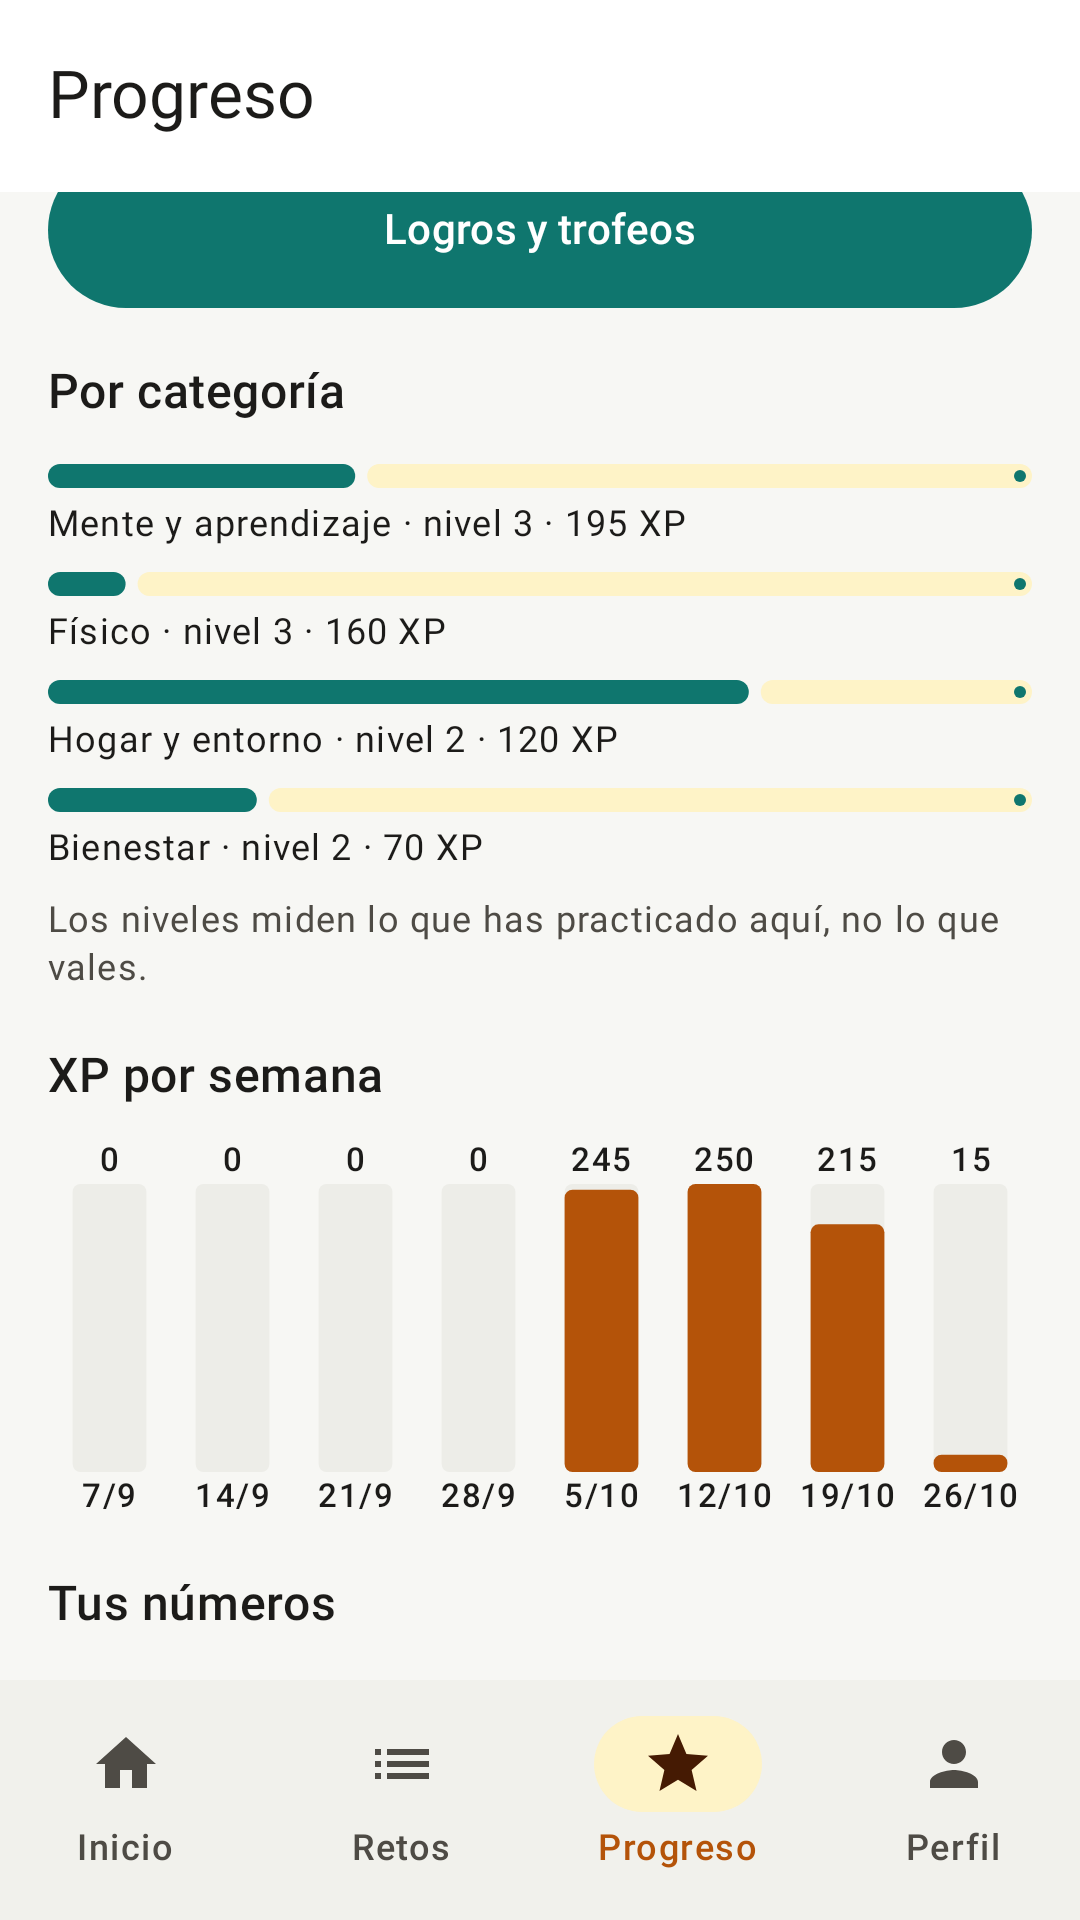
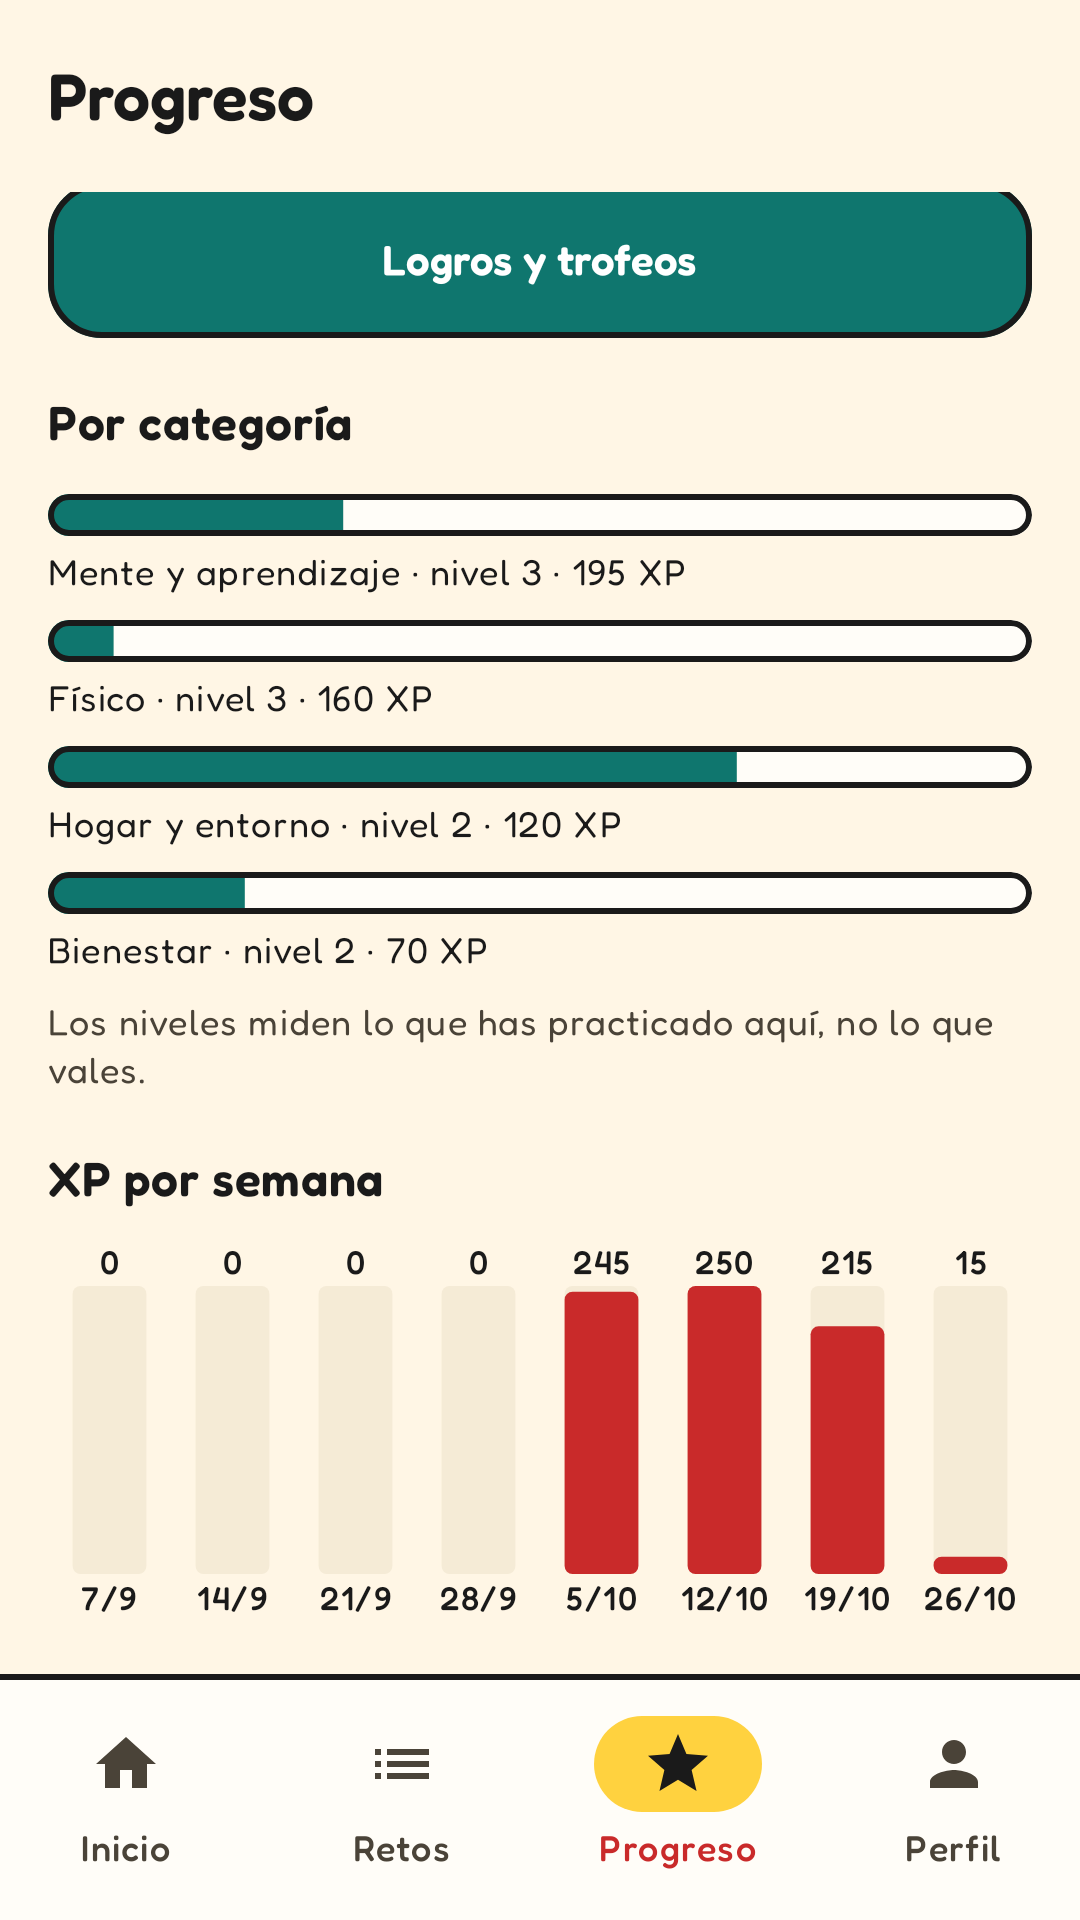
Verificado solo en el teléfono; capturas de Play al día
- La marca de Health Connect ya no se sincroniza: `record` quita `verified` de las instancias que suben y, al
  bajar, se conserva la de este teléfono. Grupos y clasificación dejan de mostrar verificados (las funciones del
  servidor siguen, devuelven 0). Así la política y la declaración de Health Connect siguen siendo ciertas.
- Texto de Laboratorio, política de privacidad y PLAY_STORE.md explican la marca (sí o no, solo en el teléfono).
- Capturas de la ficha regeneradas con el diseño nuevo; lista de publicación al día.
- Prueba: SyncTest comprueba que la marca no se sube y no se pierde al bajar.

diff --git a/shared/src/commonMain/kotlin/app/levelup/i18n/TextosCatalogo.kt b/shared/src/commonMain/kotlin/app/levelup/i18n/TextosCatalogo.kt
@@ -143,7 +143,7 @@ internal fun MutableMap<String, Array<String>>.catalog() {
     t("En Inicio, un botón para descubrir un reto que nunca has hecho. No cambia tu plan del día.", "On Home, a button to discover a challenge you've never done. It doesn't change your plan for the day.", "No Início, um botão para descobrir um desafio que você nunca fez. Não muda seu plano do dia.")
     t("Retos sorpresa", "Surprise challenges", "Desafios surpresa")
     t("Actividad de Health Connect", "Health Connect activity", "Atividade do Health Connect")
-    t("En los retos físicos, ver tus pasos y minutos de ejercicio de hoy. Solo se leen en el teléfono y nunca se suben.", "In physical challenges, see your steps and exercise minutes for today. They're only read on the phone and never uploaded.", "Nos desafios físicos, veja seus passos e minutos de exercício de hoje. Eles só são lidos no celular e nunca são enviados.")
+    t("En los retos físicos, ver tus pasos y minutos de ejercicio de hoy y marcar como verificados los que cubra tu ejercicio. Todo se queda en el teléfono: nunca se sube.", "In physical challenges, see your steps and exercise minutes for today and mark as verified the ones your exercise covers. Everything stays on the phone: nothing is uploaded.", "Nos desafios físicos, veja seus passos e minutos de exercício de hoje e marque como verificados os que seu exercício cobre. Tudo fica no celular: nada é enviado.")
     t("Escucha a tu cuerpo: si sientes dolor, mareo o falta de aire, para. Adapta el reto a tu salud y, si tienes dudas, consulta a un profesional.", "Listen to your body: if you feel pain, dizziness or shortness of breath, stop. Adapt the challenge to your health and, if in doubt, ask a professional.", "Escute seu corpo: se sentir dor, tontura ou falta de ar, pare. Adapte o desafio à sua saúde e, se tiver dúvidas, consulte um profissional.")
     t("Respeta si alguien no quiere conversar. El reto depende de tu gesto, no de la respuesta.", "Respect it if someone doesn't want to talk. The challenge depends on your gesture, not on the answer.", "Respeite se alguém não quiser conversar. O desafio depende do seu gesto, não da resposta.")
     t("LevelUp no da asesoría financiera. Adapta el reto a tu situación.", "LevelUp doesn't give financial advice. Adapt the challenge to your situation.", "O LevelUp não dá consultoria financeira. Adapte o desafio à sua situação.")

diff --git a/shared/src/commonMain/kotlin/app/levelup/data/Sync.kt b/shared/src/commonMain/kotlin/app/levelup/data/Sync.kt
@@ -214,8 +214,10 @@ private val kinds: Map<String, Kind<*>> = mapOf(
     "preferences" to Kind(Preferences.serializer(), { preferences(it.toInt()) }, { putPreferences(it) }, { deletePreferences(it.toInt()) }),
     "custom_category" to Kind(CustomCategory.serializer(), { customCategory(it) }, { putCustomCategory(it) }, { deleteCustomCategory(it) }),
     "custom_challenge" to Kind(CustomChallenge.serializer(), { customChallenge(it) }, { putCustomChallenge(it) }, { deleteCustomChallenge(it) }),
+    // `verified` sale de Health Connect y no se sube (ver `record`): al bajar, se conserva el de este teléfono.
     "instance" to Kind(ChallengeInstance.serializer(), { instance(it) },
-        { dropInstanceTwin(it.challengeId, it.date, it.id); putInstance(it) }, { deleteInstance(it) }),
+        { dropInstanceTwin(it.challengeId, it.date, it.id); putInstance(it.copy(verified = it.isDone && instance(it.id)?.verified == true)) },
+        { deleteInstance(it) }),
     "xp" to Kind(XpEntry.serializer(), { xp(it) }, { dropXpTwin(it.sourceType, it.sourceId, it.id); putXp(it) }, { deleteXp(it) }),
     "achievement" to Kind(UnlockedAchievement.serializer(), { achievement(it) }, { putAchievement(it) }, { deleteAchievement(it) }),
     "mission_run" to Kind(MissionRun.serializer(), { missionRun(it) }, { putMissionRun(it) }, { deleteMissionRun(it) }),
@@ -307,7 +309,9 @@ class SyncEngine(
         return if (kind == null || row == null) {
             SyncRecord(e.entity, e.entityId, JsonObject(emptyMap()), e.changedAt, deleted = true)
         } else {
-            SyncRecord(e.entity, e.entityId, json.encodeToJsonElement(kind.serializer, row).jsonObject, e.changedAt, deleted = false)
+            val data = json.encodeToJsonElement(kind.serializer, row).jsonObject
+            // Lo derivado de Health Connect no sale del teléfono (política de privacidad y declaración de Play).
+            SyncRecord(e.entity, e.entityId, if (e.entity == "instance") JsonObject(data - "verified") else data, e.changedAt, deleted = false)
         }
     }
 

diff --git a/shared/src/androidHostTest/kotlin/app/levelup/data/SyncTest.kt b/shared/src/androidHostTest/kotlin/app/levelup/data/SyncTest.kt
@@ -20,6 +20,7 @@ import org.robolectric.RobolectricTestRunner
 import org.robolectric.annotation.Config
 import java.io.File
 import kotlin.test.assertEquals
+import kotlin.test.assertFalse
 import kotlin.test.assertTrue
 
 /** Servidor en memoria con las mismas reglas que `push_records`: gana el cambio más reciente (en empate, lo guardado). */
@@ -122,6 +123,18 @@ class SyncTest {
         val expected = inst.xp + 10 // el reto y el logro "Primer paso", una sola vez
         assertEquals(expected, a.repo.totalXp.first())
         assertEquals(expected, b.repo.totalXp.first())
+    }
+
+    @Test fun theHealthConnectMarkNeverLeavesThePhone() = runTest {
+        val a = device()
+        a.repo.updatePreferences { it.copy(onboardingDone = true, categories = listOf("fisico")) }
+        a.sync.attach("u1")
+        val inst = a.repo.ensureToday().first { it.category == "fisico" }
+        a.repo.complete(inst.id, exerciseMinutesToday = 999)
+        assertTrue(a.db.dao().instance(inst.id)!!.verified)
+        a.sync.sync(); a.sync.sync() // sube y vuelve a bajar su propio registro
+        assertFalse("verified" in server.rows.getValue("instance" to inst.id).data, "no se sube")
+        assertTrue(a.db.dao().instance(inst.id)!!.verified, "bajar no se lo quita a este teléfono")
     }
 
     @Test fun undoReachesTheOtherPhone() = runTest {

diff --git a/shared/src/commonMain/kotlin/app/levelup/ui/social/SocialScreens.kt b/shared/src/commonMain/kotlin/app/levelup/ui/social/SocialScreens.kt
@@ -437,8 +437,7 @@ private fun GroupCard(g: GroupChallenge, me: String, vm: CloudViewModel, busy: B
         }
         joined.sortedByDescending { it.completed }.forEach { m ->
             Text(
-                "${m.displayName}${if (m.userId == me) " (tú)" else ""}: ${m.completed}" +
-                    if (m.verified > 0) tr(" ({0} verificados)", m.verified) else "",
+                "${m.displayName}${if (m.userId == me) " (tú)" else ""}: ${m.completed}",
                 style = MaterialTheme.typography.bodyMedium,
                 fontWeight = if (m.userId == me) FontWeight.Bold else null,
             )
@@ -551,7 +550,7 @@ private fun LeaderboardTab(vm: CloudViewModel) {
                     Avatar(r.displayName, frameOf(r.frame), null, 32.dp)
                     Spacer(Modifier.size(Space.s))
                     Text(r.displayName + if (r.isMe) tr(" (tú)") else "", Modifier.weight(1f), fontWeight = if (r.isMe) FontWeight.Bold else null)
-                    Text(if (r.weeklyVerified > 0) tr("{0} XP · {1} verificados", r.weeklyXp, r.weeklyVerified) else tr("{0} XP", r.weeklyXp))
+                    Text(tr("{0} XP", r.weeklyXp))
                 }
             }
         }

diff --git a/shared/src/commonMain/kotlin/app/levelup/cloud/Cloud.kt b/shared/src/commonMain/kotlin/app/levelup/cloud/Cloud.kt
@@ -106,9 +106,8 @@ data class GroupHistoryItem(
     val groupCompleted: Int,
 )
 
-/** [verified]: de esos, los respaldados por Health Connect. */
 @Serializable
-data class GroupMember(val userId: String, val username: String, val displayName: String, val status: String, val completed: Int, val verified: Int = 0)
+data class GroupMember(val userId: String, val username: String, val displayName: String, val status: String, val completed: Int)
 
 @Serializable
 data class GroupChallenge(
@@ -123,12 +122,8 @@ data class GroupChallenge(
     val members: List<GroupMember>,
 )
 
-/** [weeklyVerified]: retos físicos de esta semana respaldados por Health Connect. */
 @Serializable
-data class LeaderboardRow(
-    val userId: String, val username: String, val displayName: String, val frame: String, val weeklyXp: Long, val isMe: Boolean,
-    val weeklyVerified: Int = 0,
-)
+data class LeaderboardRow(val userId: String, val username: String, val displayName: String, val frame: String, val weeklyXp: Long, val isMe: Boolean)
 
 @Serializable
 data class NoticeActor(val userId: String, val username: String, val displayName: String)

diff --git a/shared/src/commonMain/kotlin/app/levelup/domain/Model.kt b/shared/src/commonMain/kotlin/app/levelup/domain/Model.kt
@@ -210,7 +210,7 @@ data class ChallengeInstance(
     val block: DayBlock? = null,
     /** Se completó en su versión mínima (da la XP de dificultad 1). */
     @ColumnInfo(defaultValue = "0") val minimal: Boolean = false,
-    /** Reto físico respaldado por Health Connect: ese día había minutos de ejercicio de sobra para él. */
+    /** Reto físico respaldado por Health Connect: ese día había minutos de ejercicio de sobra para él. Solo en este teléfono: no se sincroniza. */
     @ColumnInfo(defaultValue = "0") val verified: Boolean = false,
 ) {
     val isDone: Boolean get() = status == InstanceStatus.COMPLETED

diff --git a/shared/src/commonMain/kotlin/app/levelup/content/Tags.kt b/shared/src/commonMain/kotlin/app/levelup/content/Tags.kt
@@ -28,7 +28,7 @@ object Lab {
         Experiment(SURPRISE, "Retos sorpresa", "En Inicio, un botón para descubrir un reto que nunca has hecho. No cambia tu plan del día."),
         Experiment(
             HEALTH, "Actividad de Health Connect",
-            "En los retos físicos, ver tus pasos y minutos de ejercicio de hoy. Solo se leen en el teléfono y nunca se suben.",
+            "En los retos físicos, ver tus pasos y minutos de ejercicio de hoy y marcar como verificados los que cubra tu ejercicio. Todo se queda en el teléfono: nunca se sube.",
         ),
     )
 }

diff --git a/shared/src/commonMain/kotlin/app/levelup/i18n/TextosUi.kt b/shared/src/commonMain/kotlin/app/levelup/i18n/TextosUi.kt
@@ -730,8 +730,6 @@ internal fun MutableMap<String, Array<String>>.ui() {
     t("Tema", "Theme", "Tema")
     t("Estilo", "Style", "Estilo")
     t("Hecho y verificado con Health Connect", "Done and verified with Health Connect", "Feito e verificado com o Health Connect")
-    t(" ({0} verificados)", " ({0} verified)", " ({0} verificados)")
-    t("{0} XP · {1} verificados", "{0} XP · {1} verified", "{0} XP · {1} verificados")
     t("Pop", "Pop", "Pop")
     t("Aventura", "Adventure", "Aventura")
     t("Neón", "Neon", "Neon")

diff --git a/docs/play/PLAY_STORE.md b/docs/play/PLAY_STORE.md
@@ -221,7 +221,7 @@ Las capturas (sección 6) están en español: sirven para las tres fichas mientr
 | Clasificación de contenido | Cuestionario IARC: sin violencia ni ubicación. **Sí** a compras digitales. **Sí** a interacción entre usuarios, limitada: solo reacciones y ánimos predefinidos, sin chat ni texto libre (lo único que escribe cada persona es su nombre de usuario y su nombre visible), con bloqueo y denuncia |
 | Público objetivo | 13 años o más. No dirigida a menores de 13 |
 | Borrado de cuenta | En la app (Perfil → Cuenta y sincronización → Borrar mi cuenta) y, sin la app, por correo a donsackito@protonmail.com: URL https://shop.sackito.online/privacidad/levelup (sección «Tus derechos y cómo borrar tus datos») |
-| Apps de salud | Retos de bienestar general, sin funciones médicas. **Declaración de Health Connect obligatoria**: la app pide `READ_STEPS` y `READ_EXERCISE` (opcional, en Laboratorio) para mostrar los pasos y minutos de ejercicio de hoy en los retos físicos; solo lectura, procesado en el teléfono, sin guardar ni subir nada. Play revisa este formulario aparte |
+| Apps de salud | Retos de bienestar general, sin funciones médicas. **Declaración de Health Connect obligatoria**: la app pide `READ_STEPS` y `READ_EXERCISE` (opcional, en Laboratorio) para mostrar los pasos y minutos de ejercicio de hoy en los retos físicos y marcar como «verificado» el reto físico que ese ejercicio cubre; solo lectura y procesado en el teléfono: los pasos y minutos no se guardan, la marca (sí o no) se guarda solo en el teléfono, y nada se sube ni se comparte con otros usuarios. Play revisa este formulario aparte |
 
 ## 4. Seguridad de los datos
 
@@ -244,9 +244,9 @@ por cuenta del desarrollador, lo que Play no cuenta como «compartir»).
 | Actividad en la app → Otro contenido generado por el usuario (retos propios, notas, metas, favoritos, nombre de usuario) | Funciones de la app |
 
 No se recopilan ubicación, contactos, datos financieros (el pago lo gestiona Google Play), identificadores del
-dispositivo ni datos de diagnóstico. Los pasos y el ejercicio de Health Connect se leen y se muestran solo en el
-teléfono (no se guardan ni se envían): según la ayuda de Play, lo que se procesa solo en el dispositivo no cuenta
-como recopilado, pero **Tú** confírmalo al rellenarlo.
+dispositivo ni datos de diagnóstico. Los pasos y el ejercicio de Health Connect se procesan solo en el teléfono: se
+muestran, y de cada reto físico queda en el teléfono una marca de «verificado» que nunca se envía. Según la ayuda de
+Play, lo que se procesa solo en el dispositivo no cuenta como recopilado, pero **Tú** confírmalo al rellenarlo.
 
 **Tú**: repasa la lista con la ayuda vigente de Play Console al rellenarla; las categorías cambian a veces.
 
@@ -283,7 +283,7 @@ the daily challenges appear on Home. The account is optional and needs no email 
 Create an account, with any username and password, unlocks Friends and groups (only predefined reactions, no chat).
 LevelUp Plus (one-time in-app purchase, product id levelup_plus) only unlocks decorative frames, app colors and
 extended stats: Profile > LevelUp Plus. Health Connect (steps and exercise minutes, read-only, processed on the
-device) is optional and lives in Profile > Lab. The Wear OS app shows today's challenges sent by the phone.
+device; a completed physical challenge covered by today's exercise is marked "verified" on the phone only) is optional and lives in Profile > Lab. The Wear OS app shows today's challenges sent by the phone.
 The app follows the phone language (Spanish, English or Brazilian Portuguese); with the phone in English the
 menu names above appear exactly as written.
 ```
@@ -292,9 +292,9 @@ menu names above appear exactly as written.
 
 - [x] `supabase.properties` sin `cuenta=no`, y en Supabase «Confirm email» apagado (Authentication → Sign In / Providers → Email).
 - [ ] `play.properties` con la clave de licencia de Play y bundles regenerados después de copiarla.
-- [ ] Pruebas en verde: `./gradlew :shared:testAndroidHostTest` (y con `-PsupabaseLocalKey` si cambió la nube).
-- [ ] Bundles: `./gradlew :androidApp:bundleRelease :wearApp:bundleRelease`; `versionCode` subido en los dos.
-- [ ] Notas de la versión (sección 1) y capturas al día (sección 6).
+- [x] Pruebas en verde: `./gradlew :shared:testAndroidHostTest` (y con `-PsupabaseLocalKey` si cambió la nube). 156 en verde el 2026-10-28.
+- [x] Bundles: `./gradlew :androidApp:bundleRelease :wearApp:bundleRelease`; `versionCode` subido en los dos (la primera subida va con 1 y 100001). Generados y firmados el 2026-10-28; **regenerarlos** después de copiar la clave de licencia.
+- [x] Notas de la versión (sección 1) y capturas al día (sección 6): capturas regeneradas con el diseño nuevo el 2026-10-28.
 - [ ] Contenido de la app: privacidad, anuncios, acceso, IARC, público, Health Connect (sección 3).
 - [ ] Seguridad de los datos (sección 4).
 - [ ] Producto `levelup_plus` activo y probado con una cuenta de prueba de licencias.

diff --git a/docs/play/privacidad.md b/docs/play/privacidad.md
@@ -1,6 +1,6 @@
 # Política de privacidad de LevelUp
 
-Última actualización: 26 de octubre de 2026. Responsable: Johan Jafet Del Valle Santiago,
+Última actualización: 28 de octubre de 2026. Responsable: Johan Jafet Del Valle Santiago,
 contacto: donsackito@protonmail.com.
 
 ## Lo corto
@@ -68,9 +68,10 @@ compra y no ve tus datos de pago. Plus no es necesario para progresar.
 - **Notificaciones**: recordatorios (un aviso al día como máximo, solo los días que elijas, nunca en tus horas
   de silencio ni en días de descanso o pausa) y, si tienes cuenta y lo permites, avisos de tus amigos.
 - **Health Connect: pasos y ejercicio** (solo si activas «Actividad de Health Connect» en Perfil → Laboratorio):
-  la app lee tus pasos y minutos de ejercicio **de hoy** para mostrarlos en los retos físicos. Se leen en el
-  teléfono cada vez que abres un reto: no se guardan, no se sincronizan y no salen del teléfono. Puedes quitar el
-  permiso cuando quieras en Health Connect.
+  la app lee tus pasos y minutos de ejercicio **de hoy** para mostrarlos en los retos físicos y, al completar uno,
+  para marcarlo como «verificado» si tu ejercicio de hoy lo cubre. Los pasos y los minutos no se guardan; de cada
+  reto físico solo se guarda en el teléfono esa marca (sí o no). Nada de esto se sincroniza ni sale del teléfono, ni
+  lo ven tus amigos. Puedes quitar el permiso cuando quieras en Health Connect.
 
 ## Tus derechos y cómo borrar tus datos
 
@@ -83,7 +84,8 @@ compra y no ve tus datos de pago. Plus no es necesario para progresar.
 ## Salud
 
 LevelUp propone retos de hábitos generales. No es un servicio médico, no hace diagnósticos y no guarda
-datos de salud (lo que lee de Health Connect solo se muestra; ver Permisos).
+datos de salud: de lo que lee de Health Connect solo queda, en el teléfono, la marca de «verificado» de cada reto
+físico (ver Permisos).
 
 ## Capturas de pantalla
 
